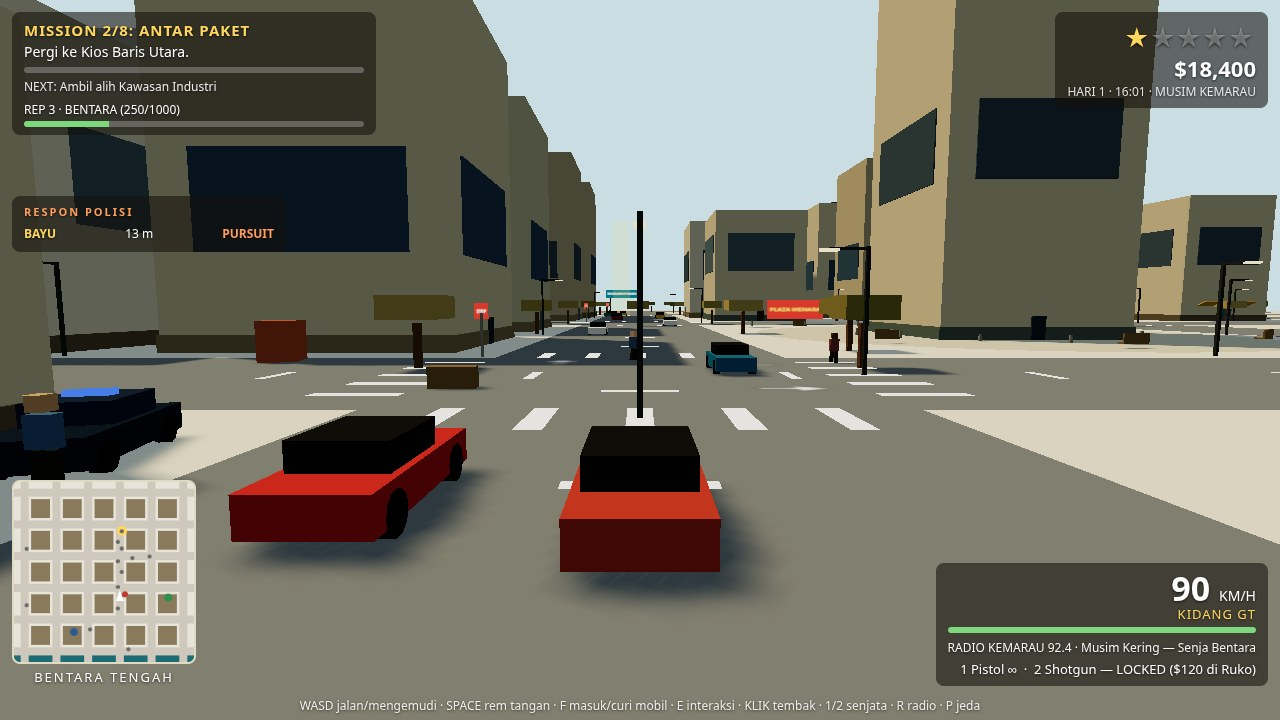
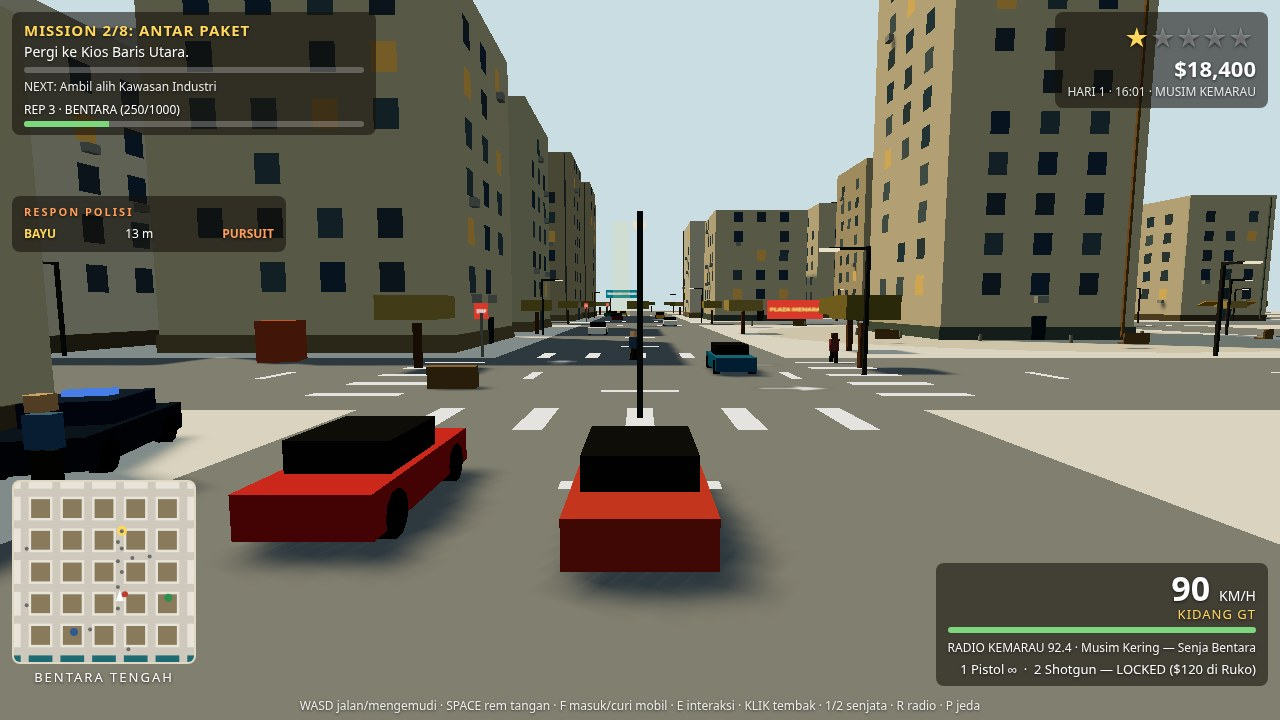
BENTARA facade detail (v1.3): full window grids, AC units, drainpipes; hero wall fixed

diff --git a/game/src/world.js b/game/src/world.js
@@ -372,40 +372,104 @@ export function createView(canvas, city) {
   inst.receiveShadow = true;
   scene.add(inst);
 
-  // Window bands: one dark glass strip on each building's four faces,
-  // a second instanced mesh so the facades stop reading as blank concrete.
-  // Band height, height on the facade and glass tone vary per building
-  // (hashed from its position, so the variation is deterministic).
+  // Facade windows: a full grid on all four faces of every building, not
+  // one band — a single band left most of each wall blank concrete, and a
+  // tall facade close to the camera filled a third of the hero frame with
+  // it. Columns every ~3.8 m, rows every ~3.6 m from just above the ground
+  // floor; a hashed skip rate leaves some bays blank and a few windows glow
+  // warm, so no two facades read the same. Planes, not boxes: 2 triangles
+  // each, so the whole city grid costs ~10k triangles. AC boxes under some
+  // windows and a drainpipe down one edge of about half the faces break the
+  // wall up further, in the same bleached-concrete palette.
   const hash2 = (x, z) => {
     const h = Math.sin(x * 127.1 + z * 311.7) * 43758.5453;
     return h - Math.floor(h);
   };
-  const winGeo = new THREE.BoxGeometry(1, 1, 1);
-  const winMat = new THREE.MeshLambertMaterial({ color: 0xffffff });
-  const winMesh = new THREE.InstancedMesh(winGeo, winMat, city.buildings.length * 4);
-  city.buildings.forEach((b, i) => {
-    const bandH = Math.min(7, Math.max(1.5, b.h * (0.3 + hash2(b.x, b.z) * 0.2)));
-    // Tall buildings wear their band lower, so it stays in frame when the
-    // camera looks up at them from the street — the tower's band at
-    // mid-height was cut off above the hero frame.
-    const bandY = b.tall
-      ? b.h * (0.35 + hash2(b.z, b.x) * 0.1)
-      : b.h * (0.5 + hash2(b.z, b.x) * 0.15);
-    const tone = PALETTE.glassAlt[Math.floor(hash2(b.x + 7, b.z + 3) * PALETTE.glassAlt.length)];
-    m4.compose(new THREE.Vector3(b.x, bandY, b.z + b.d / 2 + 0.07), new THREE.Quaternion(), new THREE.Vector3(b.w * 0.72, bandH, 0.12));
-    winMesh.setMatrixAt(i * 4, m4);
-    winMesh.setColorAt(i * 4, col.setHex(tone));
-    m4.compose(new THREE.Vector3(b.x, bandY, b.z - b.d / 2 - 0.07), new THREE.Quaternion(), new THREE.Vector3(b.w * 0.72, bandH, 0.12));
-    winMesh.setMatrixAt(i * 4 + 1, m4);
-    winMesh.setColorAt(i * 4 + 1, col.setHex(tone));
-    m4.compose(new THREE.Vector3(b.x + b.w / 2 + 0.07, bandY, b.z), new THREE.Quaternion(), new THREE.Vector3(0.12, bandH, b.d * 0.72));
-    winMesh.setMatrixAt(i * 4 + 2, m4);
-    winMesh.setColorAt(i * 4 + 2, col.setHex(tone));
-    m4.compose(new THREE.Vector3(b.x - b.w / 2 - 0.07, bandY, b.z), new THREE.Quaternion(), new THREE.Vector3(0.12, bandH, b.d * 0.72));
-    winMesh.setMatrixAt(i * 4 + 3, m4);
-    winMesh.setColorAt(i * 4 + 3, col.setHex(tone));
+  const WIN_W = 1.7;
+  const WIN_H = 2.0;
+  const winPlacements = [];
+  const acPlacements = [];
+  const pipePlacements = [];
+  for (const b of city.buildings) {
+    // Four faces: +z / -z run along x, +x / -x run along z.
+    const faces = [
+      { along: 'x', len: b.w, fixed: b.z + b.d / 2 + 0.07, rotY: 0, out: [0, 0, 1] },
+      { along: 'x', len: b.w, fixed: b.z - b.d / 2 - 0.07, rotY: Math.PI, out: [0, 0, -1] },
+      { along: 'z', len: b.d, fixed: b.x + b.w / 2 + 0.07, rotY: Math.PI / 2, out: [1, 0, 0] },
+      { along: 'z', len: b.d, fixed: b.x - b.w / 2 - 0.07, rotY: -Math.PI / 2, out: [-1, 0, 0] },
+    ];
+    faces.forEach((f, fi) => {
+      const cols = Math.max(1, Math.floor((f.len - 4) / 3.8));
+      const colStep = f.len / (cols + 1);
+      const rows = [];
+      for (let y = 4.2; y + WIN_H / 2 < b.h - 1.2; y += 3.6) rows.push(y + WIN_H / 2);
+      for (let ci = 0; ci < cols; ci += 1) {
+        const along = -f.len / 2 + colStep * (ci + 1);
+        for (const y of rows) {
+          const r = hash2(b.x + fi * 31 + ci * 7, b.z + y * 3 + fi * 13);
+          if (r < 0.16) continue; // blank bay: variation, not a wall of glass
+          const lit = r > 0.9;
+          const tone = lit ? 0xffc46b : PALETTE.glassAlt[Math.floor(hash2(b.x + ci, b.z + y + fi) * PALETTE.glassAlt.length)];
+          const px = f.along === 'x' ? b.x + along : f.fixed;
+          const pz = f.along === 'x' ? f.fixed : b.z + along;
+          winPlacements.push({ x: px, y, z: pz, rotY: f.rotY, tone });
+          // An AC box under about one window in seven, on the same face.
+          if (hash2(b.x + ci * 3, b.z + y * 7 + fi) < 0.15) {
+            acPlacements.push({
+              x: px + f.out[0] * 0.3, y: y - WIN_H / 2 - 0.45, z: pz + f.out[2] * 0.3,
+              rotY: f.rotY, tone: 0x9a9a92,
+            });
+          }
+        }
+      }
+      // A drainpipe down one edge of the face, on about half the faces.
+      if (hash2(b.x + fi * 17, b.z + fi * 29) < 0.5) {
+        const edge = (fi % 2 === 0 ? 1 : -1) * (f.len / 2 - 1.2);
+        pipePlacements.push({
+          x: f.along === 'x' ? b.x + edge : f.fixed + f.out[0] * 0.12,
+          y: b.h / 2,
+          z: f.along === 'x' ? f.fixed + f.out[2] * 0.12 : b.z + edge,
+          h: b.h - 0.6, tone: hash2(b.x, b.z + fi) < 0.5 ? 0x5f6b62 : 0x8a6a3f,
+        });
+      }
+    });
+  }
+  const winMesh = new THREE.InstancedMesh(
+    new THREE.PlaneGeometry(WIN_W, WIN_H),
+    new THREE.MeshLambertMaterial({ color: 0xffffff }),
+    Math.max(1, winPlacements.length),
+  );
+  winPlacements.forEach((w, i) => {
+    const rotQ = new THREE.Quaternion().setFromEuler(new THREE.Euler(0, w.rotY, 0));
+    m4.compose(new THREE.Vector3(w.x, w.y, w.z), rotQ, new THREE.Vector3(1, 1, 1));
+    winMesh.setMatrixAt(i, m4);
+    winMesh.setColorAt(i, col.setHex(w.tone));
   });
   scene.add(winMesh);
+  const acMesh = new THREE.InstancedMesh(
+    new THREE.BoxGeometry(1, 1, 1),
+    new THREE.MeshLambertMaterial({ color: 0xffffff }),
+    Math.max(1, acPlacements.length),
+  );
+  acPlacements.forEach((a, i) => {
+    const rotQ = new THREE.Quaternion().setFromEuler(new THREE.Euler(0, a.rotY, 0));
+    m4.compose(new THREE.Vector3(a.x, a.y, a.z), rotQ, new THREE.Vector3(1.0, 0.65, 0.55));
+    acMesh.setMatrixAt(i, m4);
+    acMesh.setColorAt(i, col.setHex(a.tone));
+  });
+  acMesh.castShadow = true;
+  scene.add(acMesh);
+  const pipeMesh = new THREE.InstancedMesh(
+    new THREE.BoxGeometry(1, 1, 1),
+    new THREE.MeshLambertMaterial({ color: 0xffffff }),
+    Math.max(1, pipePlacements.length),
+  );
+  pipePlacements.forEach((p, i) => {
+    m4.compose(new THREE.Vector3(p.x, p.y, p.z), new THREE.Quaternion(), new THREE.Vector3(0.22, p.h, 0.22));
+    pipeMesh.setMatrixAt(i, m4);
+    pipeMesh.setColorAt(i, col.setHex(p.tone));
+  });
+  scene.add(pipeMesh);
 
   // Ground-floor plinth in each building's own trim colour: the base of
   // every facade gets a darker band so the boxes sit on the street.
@@ -438,7 +502,7 @@ export function createView(canvas, city) {
   scene.add(awnMesh);
 
   // Rooftop trim boxes on the tall buildings. The tower's glass is the same
-  // window band every other building gets (winMesh above) — a full-height
+  // window grid every other building gets (winMesh above) — a full-height
   // dark slab on its south face read as a black wall from the plaza, so
   // there is no separate floor-to-roof glass sheet here.
   const trimMat = new THREE.MeshLambertMaterial({ color: 0x6b5f4a });
